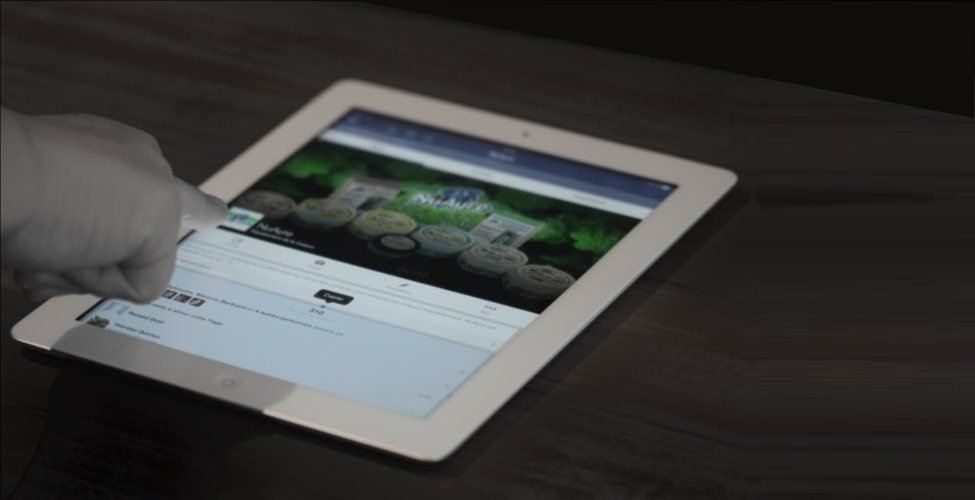
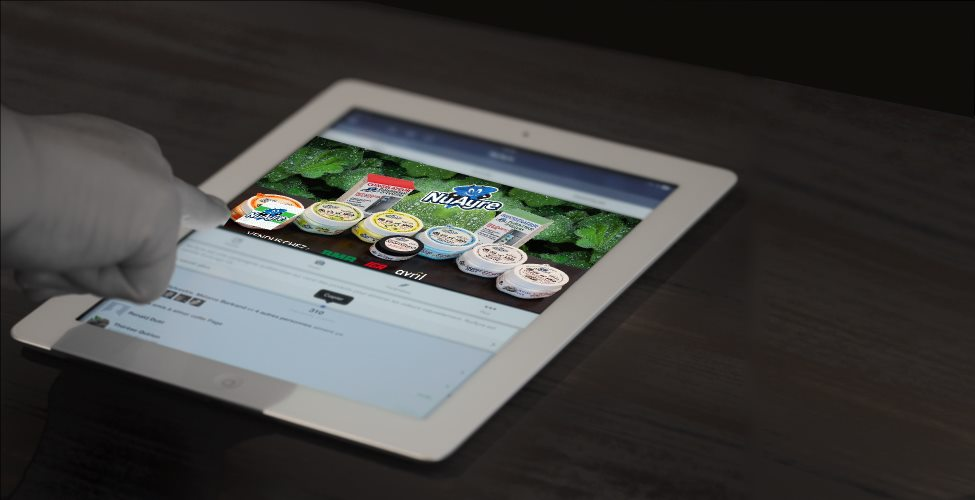
better ipad pictures

Changed region(s): [[0.2154, 0.27, 0.6462, 0.63]]

diff --git a/index.html b/index.html
@@ -737,7 +737,7 @@
                 <div id='nuayre-carousel' class="carousel slide" data-ride="carousel">
                     <div class="carousel-inner">
                         <div class="item active">
-                            <img sizes="(min-width:768px) 567px, 1vw" srcset="img/nuayre_carousel_3_sm.jpg 382px, img/nuayre_carousel_3.jpg 975px" alt="Nuayre photo ad">            
+                            <img sizes="(min-width:768px) 567px, 1vw" srcset="img/nuayre_carousel_3_sm.jpg 382px, img/face1.png 975px" alt="Nuayre photo ad">            
                             <div class="carousel-caption">
                                 www.facebook.com/NuAyre
                             </div>
